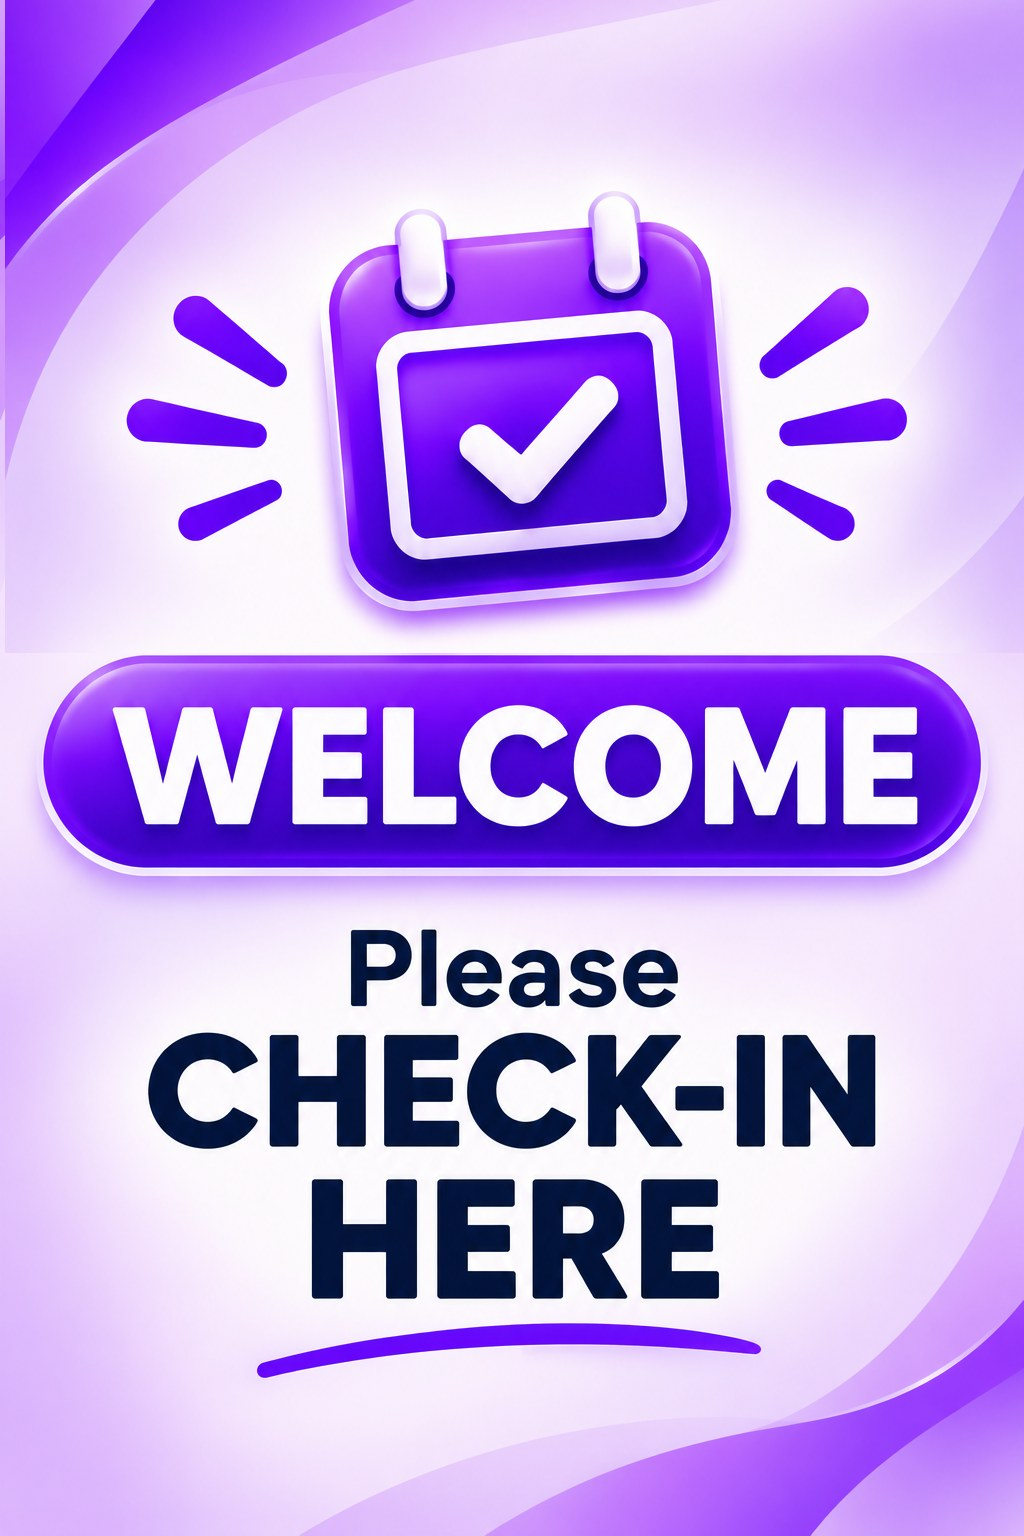
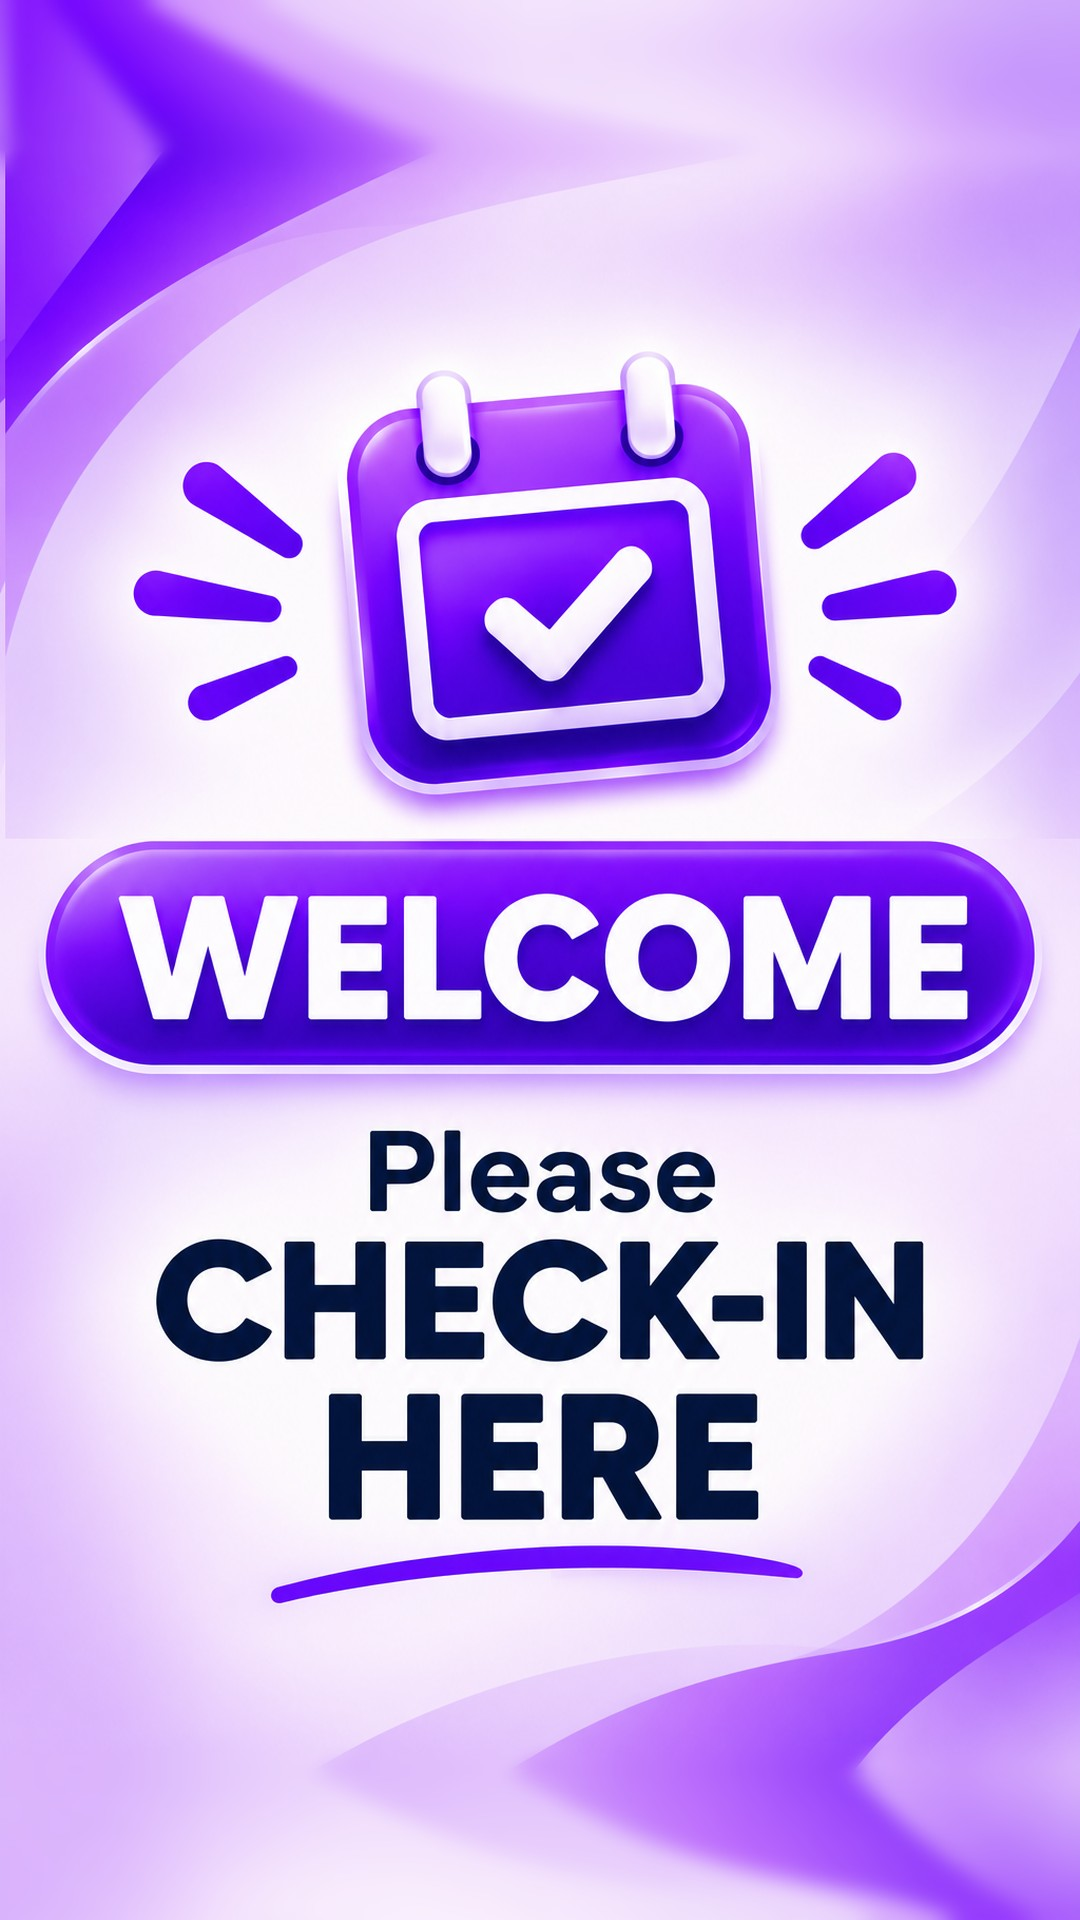
Kiosk welcome: picture always fills the screen; 9:16 version of the artwork (background extended top/bottom) so a standing kiosk shows it whole

diff --git a/artifacts/booking/src/pages/KioskCheckIn.tsx b/artifacts/booking/src/pages/KioskCheckIn.tsx
@@ -1203,12 +1203,11 @@ function KioskCheckInScreens() {
     <div className="fixed inset-0 cursor-pointer select-none overflow-hidden" data-testid="checkin-idle"
       onPointerDown={() => setScreen("phone")} onContextMenu={e => e.preventDefault()}
       style={{ ...NO_SELECT, background: BG }}>
-      {/* The whole picture is always shown (never cropped: a 9:16 kiosk screen cut off the WELCOME bar, owner
-          2026-10-31), as big as the screen allows, over a blurred copy of itself that fills the rest with purple. */}
-      <img src={kioskWelcomeBanner} alt="" aria-hidden draggable={false}
-        style={{ position: "absolute", inset: "-5%", width: "110%", height: "110%", objectFit: "cover", filter: "blur(70px) saturate(1.1)", opacity: 0.85 }} />
+      {/* The picture always fills the whole screen (owner, 2026-11-01: even if a little is cut off). It is a 9:16
+          version of the owner's 2:3 artwork, its purple background extended top and bottom, so on a standing 9:16
+          kiosk it fits exactly and nothing is cut; other screen shapes lose a little at the edges. */}
       <img src={kioskWelcomeBanner} alt="Welcome. Please check in here" draggable={false} data-testid="kiosk-welcome-image"
-        style={{ position: "absolute", inset: 0, width: "100%", height: "100%", objectFit: "contain", objectPosition: "center" }} />
+        style={{ position: "absolute", inset: 0, width: "100%", height: "100%", objectFit: "cover", objectPosition: "center" }} />
       <div className="absolute left-0 right-0 flex items-center justify-center gap-3 flex-wrap px-8"
         style={{ bottom: "clamp(18px, 3vh, 30px)" }} onPointerDown={e => e.stopPropagation()}>
         {KIOSK_LANGS.map(({ code, label }) => (
